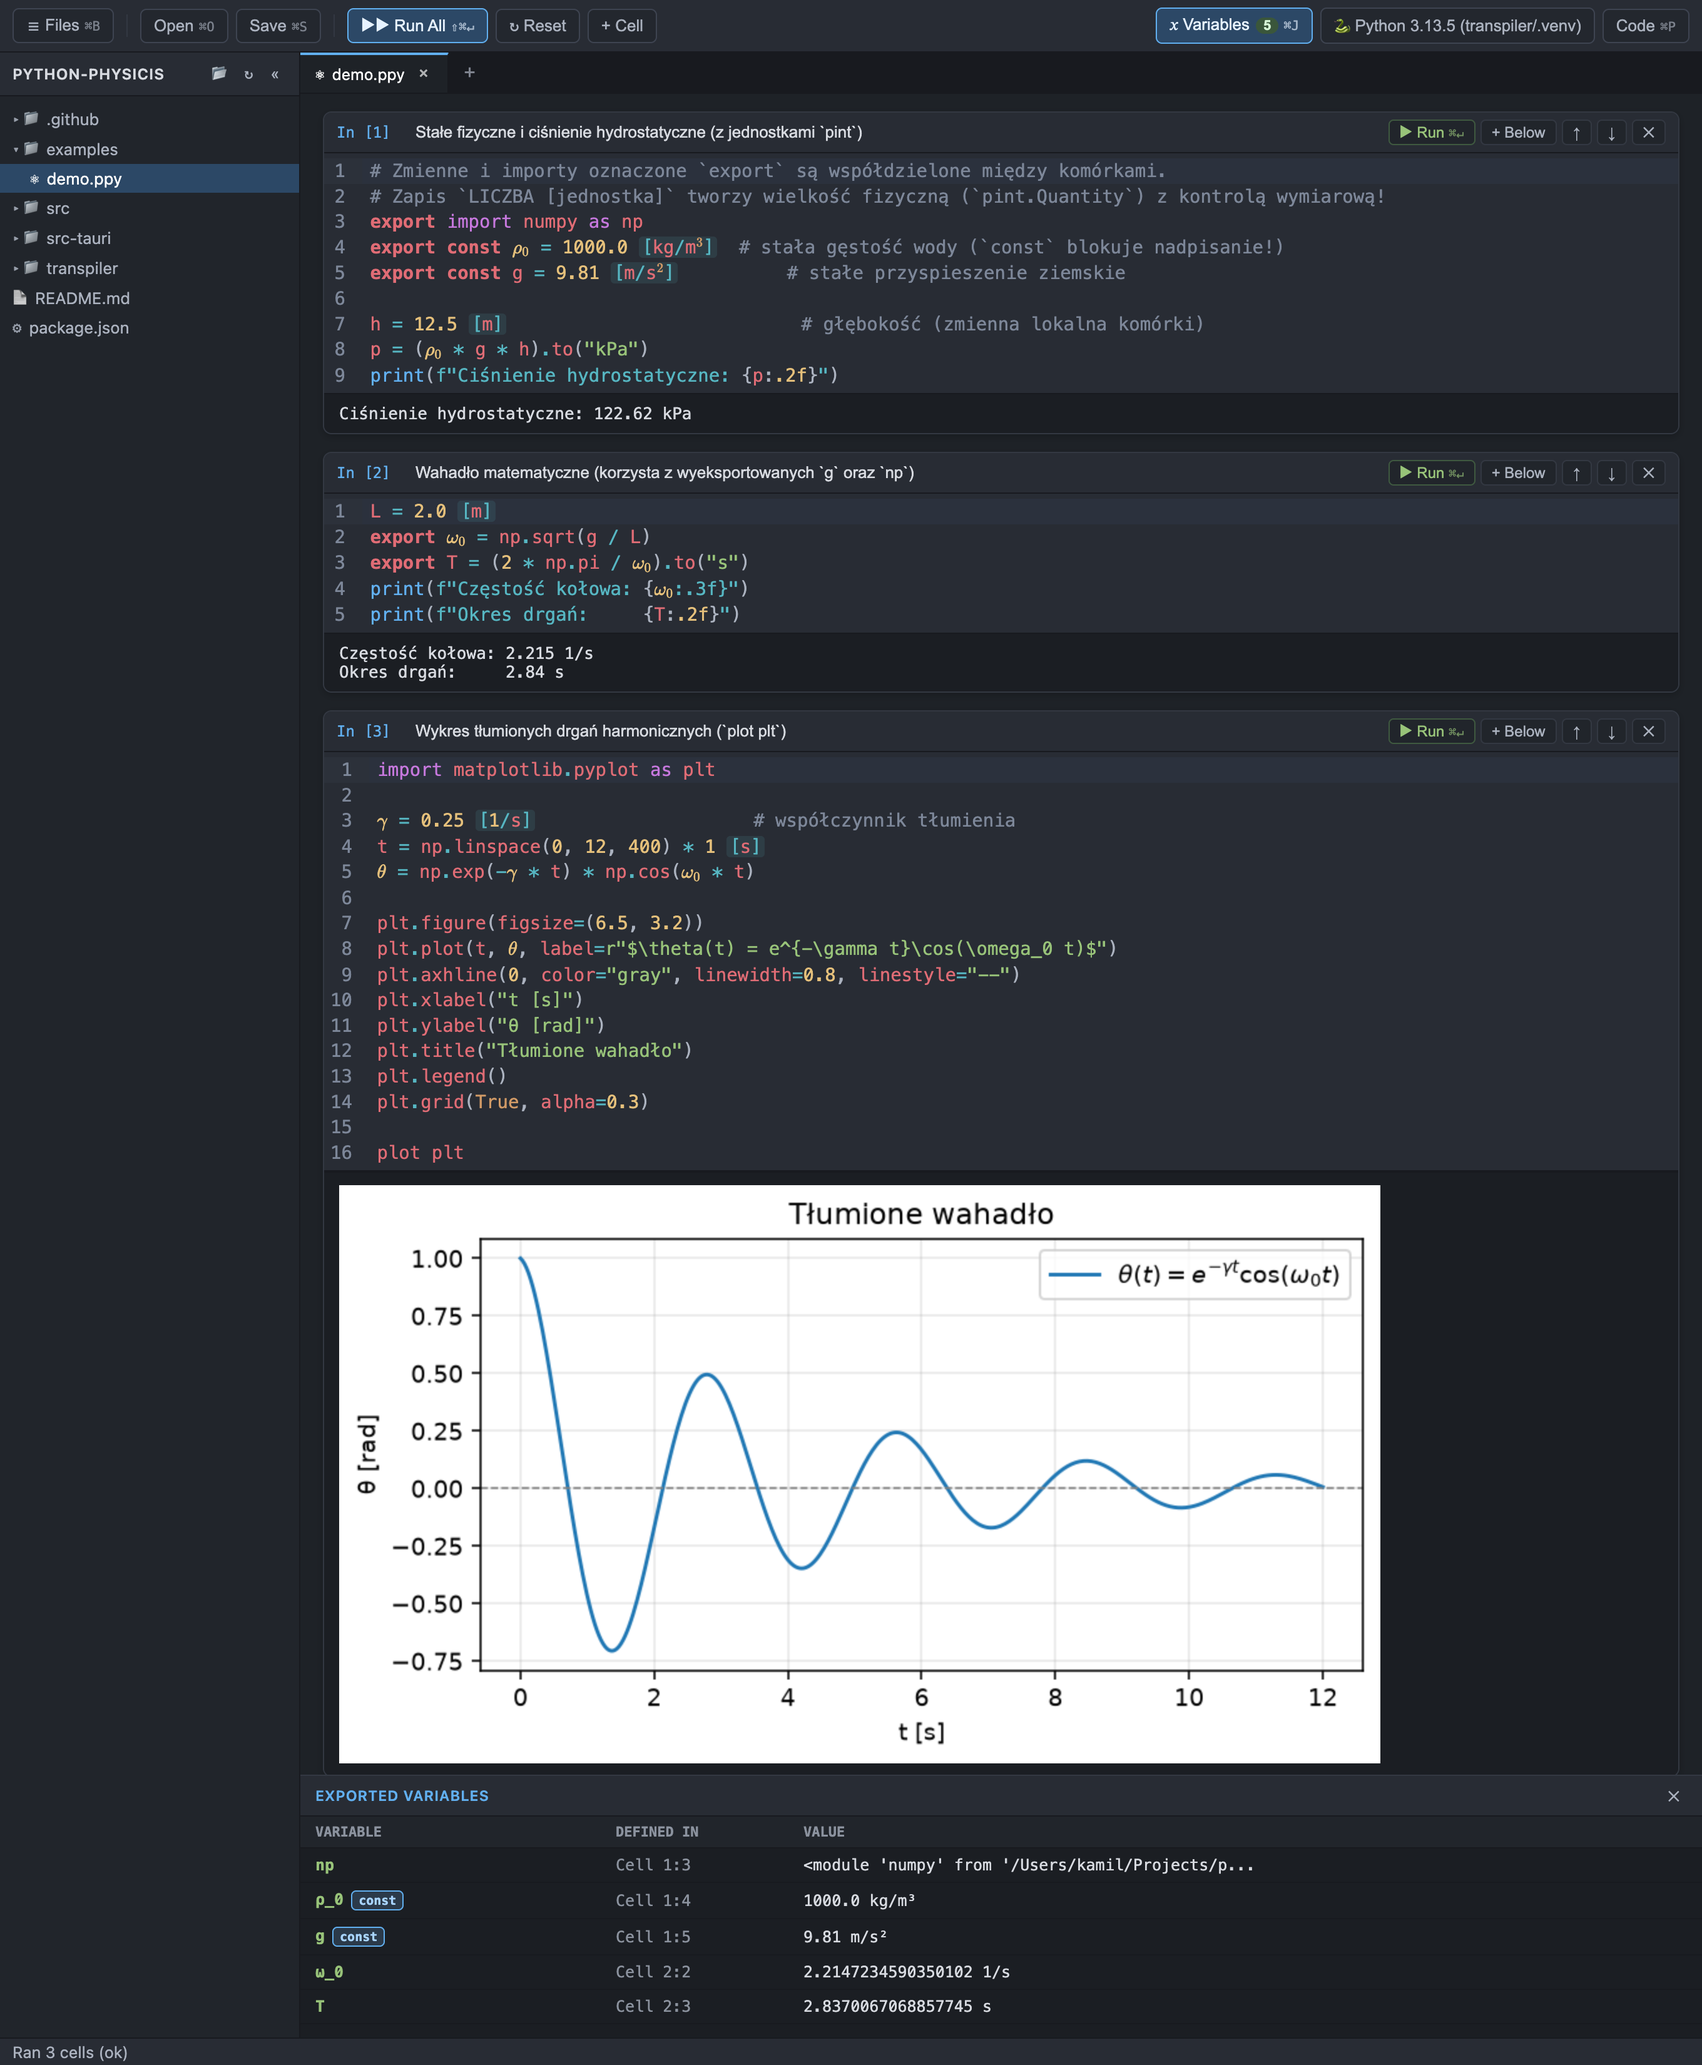
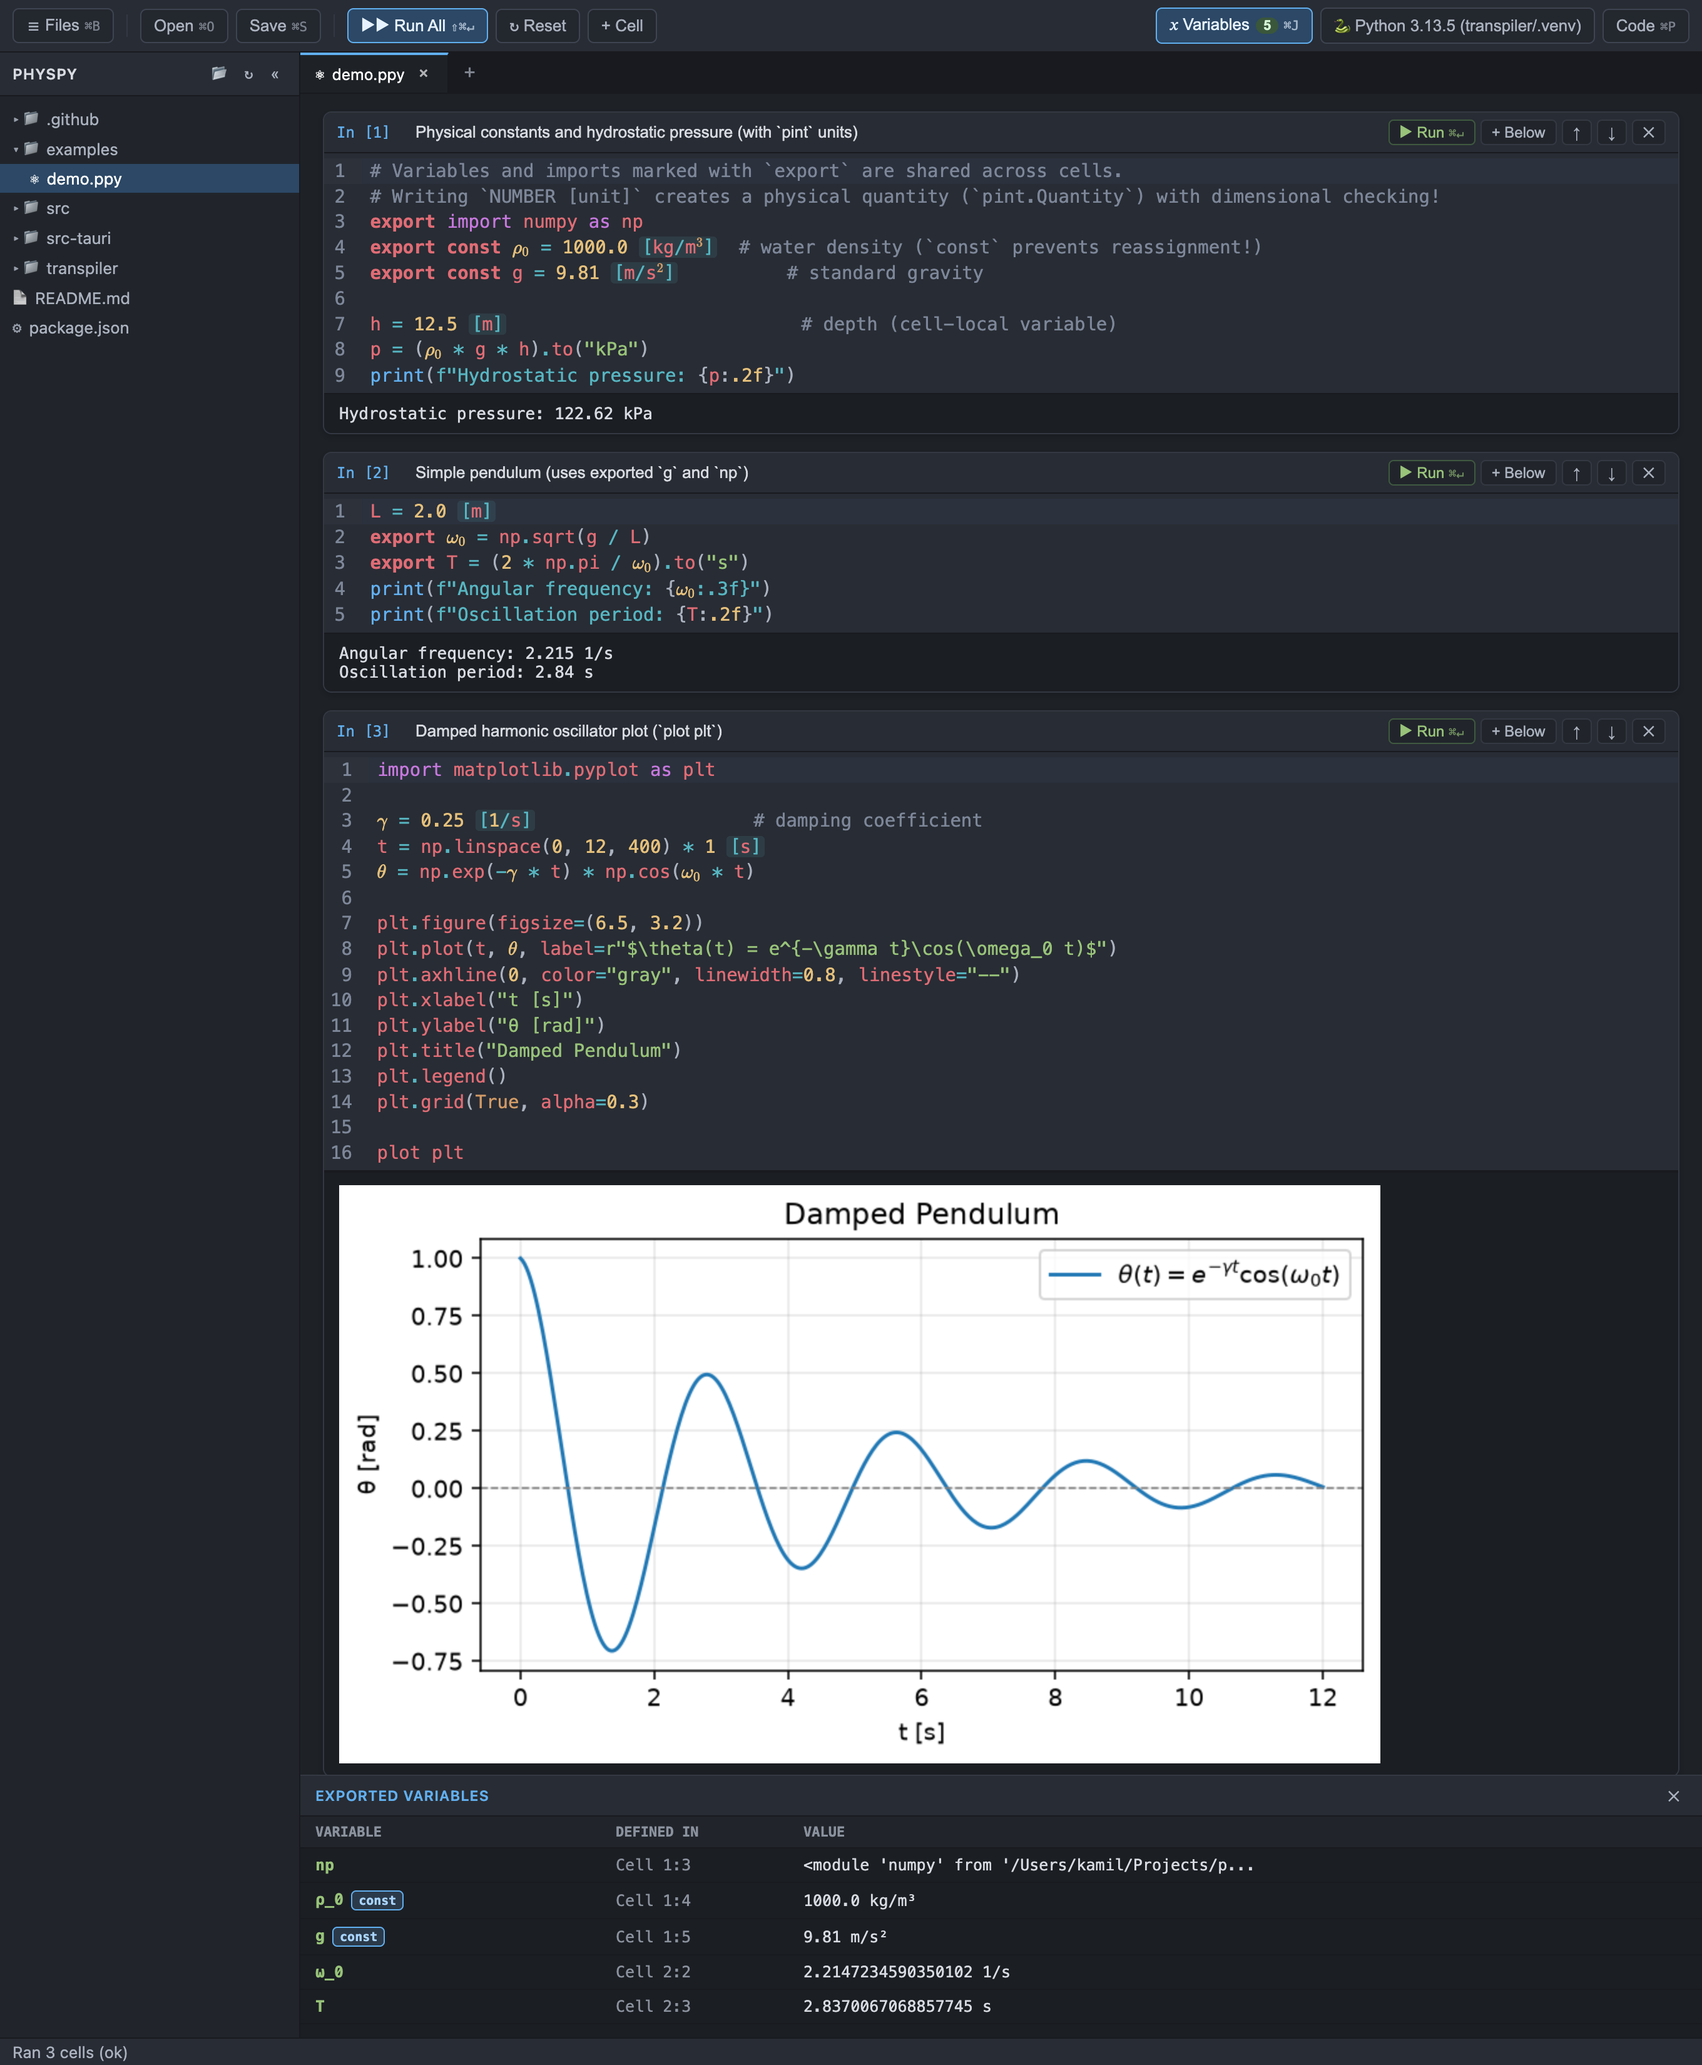
Translate README, demo notebook, UI strings, and screenshot to English

diff --git a/src/main.ts b/src/main.ts
@@ -999,7 +999,7 @@ function renderSessionExports(allExports?: Record<string, string>) {
     } else {
       const pending = document.createElement("span");
       pending.className = "var-pending";
-      pending.textContent = "brak wartości (nie uruchomiono komórki)";
+      pending.textContent = "no value yet (cell not run)";
       tdVal.append(pending);
     }
 

diff --git a/README.md b/README.md
@@ -1,126 +1,126 @@
 # PhysPy
 
-Wieloplatformowy edytor i notatnik Pythona stworzony do obliczeń fizycznych i inżynierskich.
-Piszesz czytelny kod matematyczno-fizyczny w czystym ASCII (`\rho_0`, `x^2`, `1000.0 [kg/m^3]`), edytor na żywo renderuje go jako notację fizyczną ($\rho_0$, $x^2$, `[kg/m³]`), a transpiler w locie tłumaczy go na czysty kod Pythona.
+A multi-platform desktop Python notebook and IDE built for physics and engineering calculations.
+Write clean mathematical and physical expressions in plain ASCII (`\rho_0`, `x^2`, `1000.0 [kg/m^3]`) — the editor renders them live as mathematical notation ($\rho_0$, $x^2$, `[kg/m³]`), and the transpiler converts them on the fly into standard Python.
 
-**Stack:** Tauri 2 (Rust) · CodeMirror 6 + KaTeX (TypeScript/Vite) · Transpiler `physpy` w Pythonie (`ast` + `tokenize` + `pint` + `matplotlib`)
+**Stack:** Tauri 2 (Rust) · CodeMirror 6 + KaTeX (TypeScript/Vite) · `physpy` Python transpiler (`ast` + `tokenize` + `pint` + `matplotlib`)
 
 ![PhysPy Screenshot](docs/screenshot.png)
 
 ---
 
-## Najważniejsze możliwości
+## Key Features
 
-### 1. Składnia fizyczna i matematyczna
-| Składnia PhysPy | Transpilowany Python | Opis |
+### 1. Physics & Math Syntax Extensions
+| PhysPy Syntax | Transpiled Python | Description |
 |---|---|---|
-| `\rho_0`, `\omega_0`, `\Delta x` | `ρ_0`, `ω_0`, `Δx` | Symbole greckie i fizyczne renderowane przez KaTeX (z autouzupełnianiem po wpisaniu `\`) |
-| `1000.0 [kg/m^3]`, `p.to("kPa")` | `__physpy_unit__(1000.0, 'kg/m^3')` | Jednostki fizyczne oparte o `pint` (`pint.Quantity`) z automatyczną kontrolą wymiarową i konwersją `.to(...)` |
-| `const g = 9.81 [m/s^2]` | stała niemodyfikowalna | Blokuje nadpisanie stałej na poziomie AST oraz **natychmiast podkreśla próbę zmiany na czerwono w edytorze** |
-| `export x = ...`, `export const ...`, `export import ...` | zapis do sesji `__exports__` | Jawne współdzielenie zmiennych, stałych, funkcji, klas i importów między komórkami `# %%` |
-| `2(\rho_0 + g)` | `2*(ρ_0 + g)` | Domyślne mnożenie przed nawiasem po literale liczbowym |
-| `x^2`, `x^(n+1)` | `x**2`, `x**(n+1)` | Potęgowanie z symbolem `^` renderowane w edytorze jako indeks górny ($x^2$, $x^{n+1}$) |
-| `x \|> f \|> g` | `g(f(x))` | Operator potoku (pipe) |
-| `plot plt`, `plot fig`, `plot ax` | `__physpy_plot__(plt)` | Renderowanie wykresów `matplotlib` bezpośrednio pod komórką w notatniku |
+| `\rho_0`, `\omega_0`, `\Delta x` | `ρ_0`, `ω_0`, `Δx` | Greek and physics symbols rendered live via KaTeX (with `\` autocomplete) |
+| `1000.0 [kg/m^3]`, `p.to("kPa")` | `__physpy_unit__(1000.0, 'kg/m^3')` | Physical units powered by `pint` (`pint.Quantity`) with automatic dimensional analysis and `.to(...)` conversion |
+| `const g = 9.81 [m/s^2]` | immutable constant | Blocks reassignment at the AST level and **immediately underlines reassignment attempts in red in the editor** |
+| `export x = ...`, `export const ...`, `export import ...` | stored in `__exports__` | Explicit sharing of variables, constants, functions, classes, and imports across `# %%` cells |
+| `2(\rho_0 + g)` | `2*(ρ_0 + g)` | Implicit multiplication after numeric literals before `(` |
+| `x^2`, `x^(n+1)` | `x**2`, `x**(n+1)` | Exponentiation with `^` rendered as superscripts ($x^2$, $x^{n+1}$) in the editor |
+| `x \|> f \|> g` | `g(f(x))` | Pipe operator |
+| `plot plt`, `plot fig`, `plot ax` | `__physpy_plot__(plt)` | Inline rendering of `matplotlib` figures directly below the notebook cell |
 
-### 2. Notatnik komórkowy (`# %%`) z izolacją zakresów
-- Pliki `.ppy` dzielone są na komórki za pomocą `# %% Tytuł komórki` (zostają zwykłymi plikami tekstowymi przyjaznymi dla Gita).
-- Domyślnie zmienne pomocnicze wewnątrz komórki są **lokalne tylko dla tej komórki** — nie zaśmiecają globalnej przestrzeni nazw.
-- Aby przekazać zmienną, stałą, funkcję lub import do kolejnych komórek, użyj słowa kluczowego `export`:
+### 2. Cell Notebook (`# %%`) with Isolated Scopes
+- `.ppy` files are split into cells using `# %% Cell Title` markers while remaining plain, Git-friendly text files.
+- By default, helper variables inside a cell are **local to that cell** — preventing namespace pollution across cells.
+- Use the `export` keyword to explicitly share a variable, constant, function, class, or import with subsequent cells:
   ```python
-  # %% Stałe fizyczne i ciśnienie hydrostatyczne
+  # %% Physical constants and hydrostatic pressure
   export import numpy as np
   export const \rho_0 = 1000.0 [kg/m^3]
   export const g = 9.81 [m/s^2]
 
   h = 12.5 [m]
   p = (\rho_0 * g * h).to("kPa")
-  print(f"Ciśnienie hydrostatyczne: {p:.2f}")
+  print(f"Hydrostatic pressure: {p:.2f}")
 
-  # %% Wahadło matematyczne
+  # %% Simple pendulum
   L = 2.0 [m]
   export \omega_0 = np.sqrt(g / L)
   export T = (2 * np.pi / \omega_0).to("s")
-  print(f"Okres drgań: {T:.2f}")
+  print(f"Period: {T:.2f}")
   ```
 
-### 3. Środowisko desktopowe (IDE)
-- **Zwijane drzewo plików (`⌘B`)** z obsługą tworzenia, zmiany nazw i usuwania plików/folderów z menu kontekstowego.
-- **Karty edytora (Taby)** w stylu VS Code (`⌘N`, `⌘W`, środkowy przycisk myszy, menu pod prawym przyciskiem myszy).
-- **Dolny panel Variables (`⌘J`)** — skanuje na żywo wszystkie deklaracje `export` oraz `export const` w pliku, pokazuje ich aktualne wartości (wraz z jednostkami `pint`), oznacza zmienne oczekujące na uruchomienie komórki oraz ostrzega o zduplikowanych eksportach.
-- **Wybór interpretera Pythona** — okno modalne pozwalające przełączać środowisko Pythona (`.venv`, Conda, Homebrew, systemowy lub własna ścieżka).
-- **Podgląd wygenerowanego Pythona** — boczny panel pokazujący wynik transpilacji w czasie rzeczywistym.
+### 3. Desktop IDE Features
+- **Collapsible File Explorer (`⌘B`)** — browse workspace folders and create, rename, or delete files and directories via the context menu.
+- **VS Code-Style Editor Tabs** — open multiple files in tabs (`⌘N`, `⌘W`, middle-click to close, right-click tab context menu).
+- **Variables Drawer (`⌘J`)** — live static + runtime scanner for all `export` and `export const` declarations in the file, showing current runtime values (including `pint` units), pending unexecuted exports, and duplicate export warnings.
+- **Python Interpreter Selector** — modal dialog to switch the active Python environment (`.venv`, Conda, Homebrew, system Python, or custom binary path).
+- **Transpiled Python Preview (`⌘P`)** — live side panel displaying the generated plain Python code.
 
 ---
 
-## Struktura projektu
+## Project Structure
 
 ```text
 ├── index.html, src/            # Frontend (Vite + TypeScript + CodeMirror 6 + KaTeX)
-│   ├── main.ts                 # UI: komórki, taby, drzewo plików, panel Variables, dialog Pythona
-│   ├── backend.ts              # Wrappery na komendy Tauri
+│   ├── main.ts                 # UI: notebook cells, tabs, file tree, Variables drawer, Python dialog
+│   ├── backend.ts              # Tauri command wrappers
 │   └── editor/
-│       ├── mathSymbols.ts      # Renderowanie \rho_0 → ρ₀ oraz x^2 → x² (KaTeX)
-│       ├── constLint.ts        # Podświetlanie const/export, jednostek [unit] oraz błędów nadpisania const
-│       ├── completion.ts       # Autouzupełnianie symboli po wpisaniu "\"
-│       ├── symbols.ts          # Tabela symboli + konwersja do LaTeX
-│       └── setup.ts            # Konfiguracja CodeMirror 6
-├── src-tauri/                  # Backend desktopowy (Rust / Tauri 2)
-│   └── src/lib.rs              # Proces roboczy Pythona (JSON-RPC), operacje plikowe, wykrywanie Pythona
-├── transpiler/                 # Pakiet Pythona `physpy`
+│       ├── mathSymbols.ts      # Live rendering for \rho_0 → ρ₀ and x^2 → x² (KaTeX)
+│       ├── constLint.ts        # Highlighting for const/export, [unit] literals, and const reassignment errors
+│       ├── completion.ts       # Symbol autocomplete triggered on "\"
+│       ├── symbols.ts          # Symbol table + LaTeX conversion
+│       └── setup.ts            # CodeMirror 6 configuration
+├── src-tauri/                  # Desktop backend (Rust / Tauri 2)
+│   └── src/lib.rs              # Persistent Python worker (JSON-RPC), filesystem commands, Python discovery
+├── transpiler/                 # Python package `physpy`
 │   ├── src/physpy/
-│   │   ├── symbols.json        # Wspólna tabela symboli (współdzielona z frontendem)
-│   │   ├── symbols.py          # \rho_0 → ρ_0 (w tym wewnątrz f-stringów)
-│   │   ├── consts.py           # Obsługa słowa kluczowego `const` + walidacja AST
-│   │   ├── exports.py          # Obsługa słowa kluczowego `export` między komórkami
-│   │   ├── units.py            # Jednostki fizyczne `1000.0 [kg/m^3]` (pint)
-│   │   ├── plotting.py         # Komenda `plot plt` / `plot fig` (matplotlib → PNG)
-│   │   ├── implicit_mul.py     # Domyślne mnożenie `2(a + b)` → `2*(a + b)`
-│   │   ├── power.py            # Potęgowanie `x^2` → `x**2`
-│   │   ├── pipe.py             # Operator potoku `x |> f` → `f(x)`
-│   │   ├── notebook.py         # Dzielenie na komórki `# %%` i sesja wykonawcza
-│   │   ├── pipeline.py         # Rejestr przebiegów transpilacji
-│   │   ├── importer.py         # Import hook pozwalający robić `import modul` dla plików `.ppy`
+│   │   ├── symbols.json        # Shared symbol table (used by both frontend and Python transpiler)
+│   │   ├── symbols.py          # \rho_0 → ρ_0 (including inside f-string interpolations)
+│   │   ├── consts.py           # `const` keyword rewrite + AST immutability enforcement
+│   │   ├── exports.py          # `export` keyword rewrite across notebook cells
+│   │   ├── units.py            # Physical unit literals `1000.0 [kg/m^3]` (powered by `pint`)
+│   │   ├── plotting.py         # `plot plt` / `plot fig` command (matplotlib → base64 PNG)
+│   │   ├── implicit_mul.py     # Implicit multiplication `2(a + b)` → `2*(a + b)`
+│   │   ├── power.py            # Exponentiation `x^2` → `x**2`
+│   │   ├── pipe.py             # Pipe operator `x |> f` → `f(x)`
+│   │   ├── notebook.py         # `# %%` cell splitter and isolated session runner
+│   │   ├── pipeline.py         # Source & AST transpilation pipeline
+│   │   ├── importer.py         # Import hook allowing `import module` for `.ppy` files
 │   │   └── cli.py              # CLI: `physpy run`, `physpy transpile`, `physpy worker`
-│   └── tests/                  # Testy jednostkowe pytest
-├── examples/demo.ppy           # Przykładowy notatnik fizyczny
-└── .github/workflows/build.yml # CI/CD budujące instalatory na macOS, Windows i Linux
+│   └── tests/                  # Pytest unit test suite
+├── examples/demo.ppy           # Example physics notebook
+└── .github/workflows/build.yml # CI/CD workflow building macOS, Windows, and Linux bundles on push to main
 ```
 
 ---
 
-## Uruchomienie lokalne
+## Getting Started
 
-### Wymagania
+### Prerequisites
 - **Node.js** 20+
 - **Rust** (stable toolchain)
-- **Python** 3.10+ oraz [`uv`](https://docs.astral.sh/uv/)
+- **Python** 3.10+ and [`uv`](https://docs.astral.sh/uv/)
 
-### Instalacja i start
+### Local Development & Build
 
 ```bash
-# 1. Przygotowanie środowiska Pythona z bibliotekami (numpy, matplotlib, pint, pytest)
+# 1. Create the Python virtual environment with dependencies (numpy, matplotlib, pint, pytest)
 cd transpiler && uv sync && cd ..
 
-# 2. Instalacja zależności frontendu
+# 2. Install frontend dependencies
 npm install
 
-# 3. Uruchomienie aplikacji desktopowej w trybie deweloperskim
+# 3. Run the desktop app in development mode
 npm run tauri dev
 
-# 4. Zbudowanie gotowej aplikacji desktopowej (.app / .dmg / .msi / .deb / .AppImage)
+# 4. Build production desktop bundles (.app / .dmg / .msi / .deb / .AppImage)
 npm run tauri build
 ```
 
-### Użycie samego transpilera z linii komend (CLI)
+### Using the Transpiler CLI Standalone
 
 ```bash
-# Uruchomienie pliku .ppy
+# Execute a .ppy file directly
 cd transpiler && uv run physpy run ../examples/demo.ppy
 
-# Podgląd wygenerowanego kodu Pythona
+# Print the transpiled plain Python code
 cd transpiler && uv run physpy transpile ../examples/demo.ppy
 
-# Uruchomienie testów
+# Run the test suite
 cd transpiler && uv run pytest
 ```
